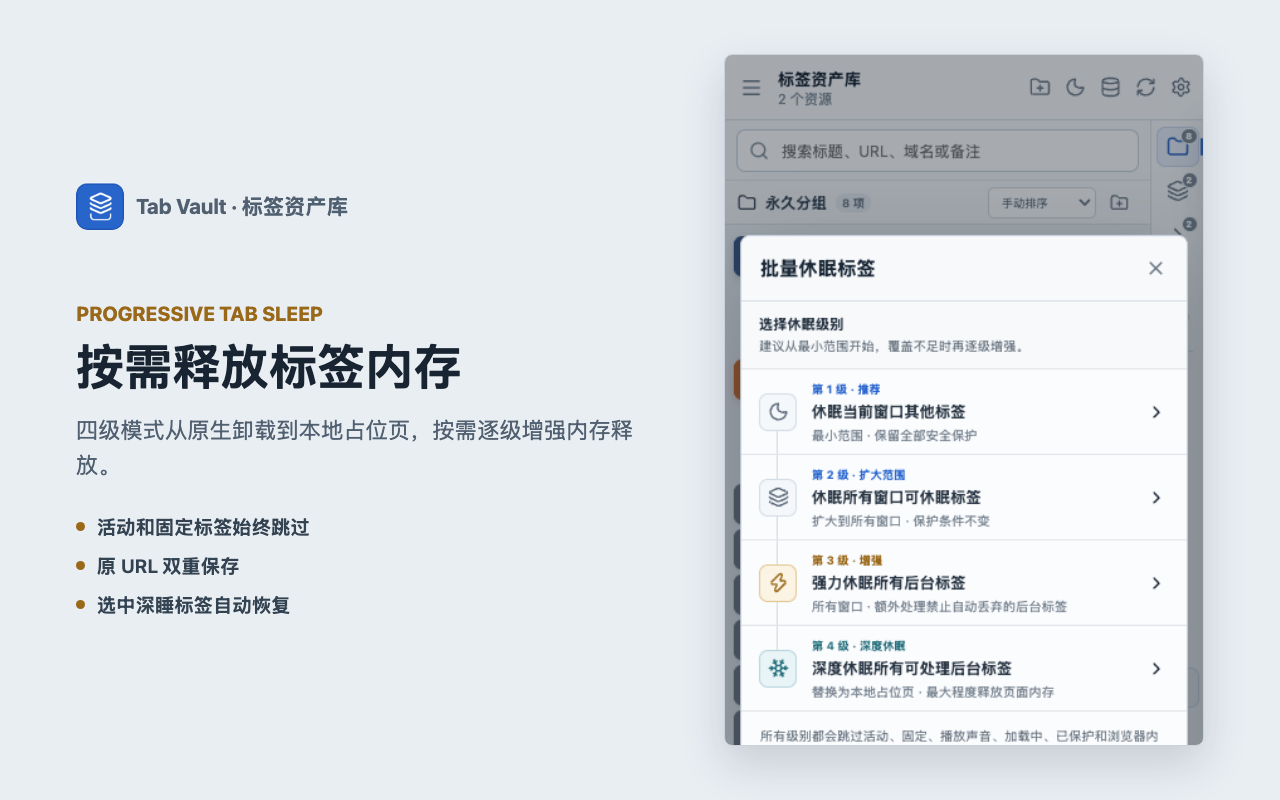
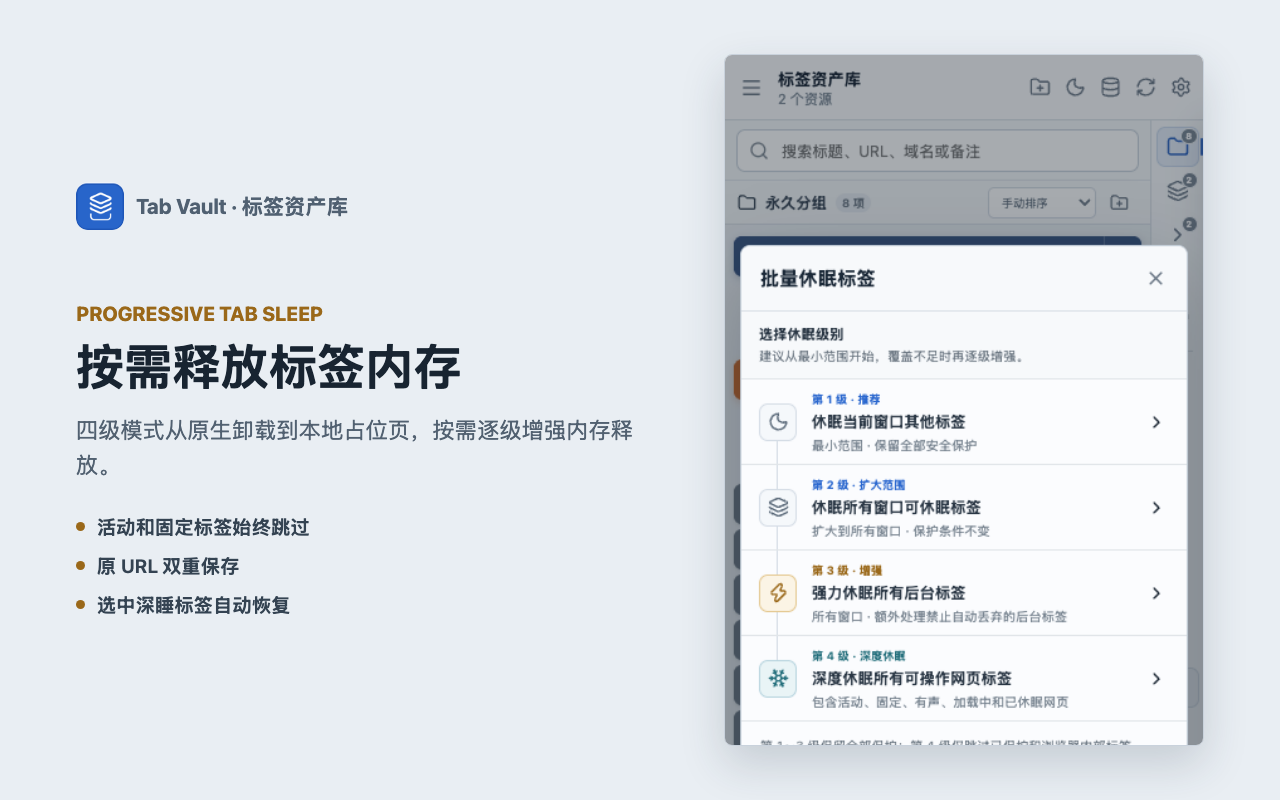
fix: make level four deep sleep exhaustive

Changed region(s): [[0.5625, 0.2812, 0.9375, 0.9375]]

diff --git a/src/shared/i18n.ts b/src/shared/i18n.ts
@@ -75,15 +75,15 @@ const en = {
   sleepOtherTabs: "Sleep other tabs in this window",
   sleepAllTabs: "Sleep eligible tabs in all windows",
   forceSleepAllTabs: "Force-sleep all background tabs",
-  deepSleepAllTabs: "Deep-sleep all eligible background tabs",
+  deepSleepAllTabs: "Deep-sleep all operable web tabs",
   sleepOtherTabsScope: "Smallest scope · All safeguards remain active",
   sleepAllTabsScope: "All windows · The same safeguards remain active",
   forceSleepAllTabsScope:
     "All windows · Also includes tabs blocked from automatic discard",
   deepSleepAllTabsScope:
-    "Replaces pages with local placeholders for maximum memory release",
+    "Includes active, pinned, audible, loading, and sleeping web tabs",
   sleepTabsSafety:
-    "Every level still skips active, pinned, audible, loading, protected, and browser-internal tabs.",
+    "Levels 1-3 retain all safeguards. Level 4 skips only protected and browser-internal tabs.",
   tabsPutToSleep:
     "{count} tabs are sleeping; they remain in the tab strip and reload when selected",
   noTabsToSleepCurrent:
@@ -96,9 +96,9 @@ const en = {
   noTabsToDeepSleep: "No eligible tabs for deep sleep",
   deepSleepWarningTitle: "Before deep sleep",
   deepSleepWarningBody:
-    "Deep sleep replaces eligible background pages with a lightweight local placeholder. The original URL, title, and group are saved first.",
+    "Deep sleep replaces every operable web tab with a lightweight local placeholder after saving its original URL, title, and group.",
   deepSleepWarningRuntimeLoss:
-    "Unsaved form input, playback position, and in-page app state may be lost.",
+    "Active pages are replaced immediately. Audio, loading, unsaved forms, and in-page app state will be interrupted.",
   deepSleepWarningRecovery:
     "The original URL is stored both in Tab Vault and in the placeholder address for recovery.",
   confirmDeepSleep: "Continue with deep sleep",
@@ -343,13 +343,13 @@ const zh: Record<MessageKey, string> = {
   sleepOtherTabs: "休眠当前窗口其他标签",
   sleepAllTabs: "休眠所有窗口可休眠标签",
   forceSleepAllTabs: "强力休眠所有后台标签",
-  deepSleepAllTabs: "深度休眠所有可处理后台标签",
+  deepSleepAllTabs: "深度休眠所有可操作网页标签",
   sleepOtherTabsScope: "最小范围 · 保留全部安全保护",
   sleepAllTabsScope: "扩大到所有窗口 · 保护条件不变",
   forceSleepAllTabsScope: "所有窗口 · 额外处理禁止自动丢弃的后台标签",
-  deepSleepAllTabsScope: "替换为本地占位页 · 最大程度释放页面内存",
+  deepSleepAllTabsScope: "包含活动、固定、有声、加载中和已休眠网页",
   sleepTabsSafety:
-    "所有级别都会跳过活动、固定、播放声音、加载中、已保护和浏览器内部标签。",
+    "第 1～3 级保留全部保护；第 4 级仅跳过已保护和浏览器内部标签。",
   tabsPutToSleep: "已休眠 {count} 个标签；标签仍保留在标签栏，切回时会重新加载",
   noTabsToSleepCurrent: "当前窗口没有可休眠标签，可尝试第 2 级处理所有窗口。",
   noTabsToSleepSafe: "安全级别没有可休眠标签，可尝试第 3 级扩大覆盖。",
@@ -358,9 +358,9 @@ const zh: Record<MessageKey, string> = {
   noTabsToDeepSleep: "没有可深度休眠的标签",
   deepSleepWarningTitle: "深度休眠前确认",
   deepSleepWarningBody:
-    "深度休眠会先保存原 URL、标题和分组，再把符合条件的后台网页替换为轻量本地占位页。",
+    "深度休眠会先保存原 URL、标题和分组，再把所有可操作网页标签替换为轻量本地占位页。",
   deepSleepWarningRuntimeLoss:
-    "未提交的表单、播放进度和网页应用内的临时状态可能丢失。",
+    "活动页面会立即被替换；音频、加载任务、未提交表单和网页应用临时状态都会中断。",
   deepSleepWarningRecovery:
     "原 URL 同时保存在标签资产库和占位页地址中，可双重恢复。",
   confirmDeepSleep: "确认并开始深度休眠",

diff --git a/src/shared/tabs.test.ts b/src/shared/tabs.test.ts
@@ -1,5 +1,5 @@
 import { describe, expect, it } from "vitest";
-import { isSafeToDeepSleep, isSafeToDiscard } from "./tabs";
+import { isEligibleForDeepSleep, isSafeToDiscard } from "./tabs";
 
 function makeTab(
   patch: Partial<chrome.tabs.Tab> = {},
@@ -52,25 +52,25 @@ describe("isSafeToDiscard", () => {
   });
 });
 
-describe("isSafeToDeepSleep", () => {
-  it("accepts both running and natively discarded background tabs", () => {
-    expect(isSafeToDeepSleep(makeTab())).toBe(true);
-    expect(isSafeToDeepSleep(makeTab({ discarded: true }))).toBe(true);
+describe("isEligibleForDeepSleep", () => {
+  it("accepts every operable web-tab state", () => {
+    expect(isEligibleForDeepSleep(makeTab())).toBe(true);
+    expect(isEligibleForDeepSleep(makeTab({ active: true }))).toBe(true);
+    expect(isEligibleForDeepSleep(makeTab({ pinned: true }))).toBe(true);
+    expect(isEligibleForDeepSleep(makeTab({ audible: true }))).toBe(true);
+    expect(isEligibleForDeepSleep(makeTab({ discarded: true }))).toBe(true);
+    expect(
+      isEligibleForDeepSleep(makeTab({ status: "loading" })),
+    ).toBe(true);
+    expect(
+      isEligibleForDeepSleep(makeTab({ autoDiscardable: false })),
+    ).toBe(true);
   });
 
   it.each([
-    ["active", { active: true }],
-    ["pinned", { pinned: true }],
-    ["audible", { audible: true }],
-    ["loading", { status: "loading" as const }],
+    ["missing ID", { id: undefined }],
     ["browser-internal", { url: "chrome://extensions" }],
   ])("rejects a %s tab", (_label, patch) => {
-    expect(isSafeToDeepSleep(makeTab(patch))).toBe(false);
-  });
-
-  it("ignores the browser auto-discard flag for a manual deep sleep", () => {
-    expect(
-      isSafeToDeepSleep(makeTab({ autoDiscardable: false })),
-    ).toBe(true);
+    expect(isEligibleForDeepSleep(makeTab(patch))).toBe(false);
   });
 });

diff --git a/src/sidepanel/App.tsx b/src/sidepanel/App.tsx
@@ -118,6 +118,7 @@ const COLLECTION_COLORS: CollectionColor[] = [
 const PRIVACY_POLICY_URL =
   "https://github.com/theZmemo/tab-vault-extension/blob/main/PRIVACY.md";
 const RESOURCE_RENDER_BATCH = 80;
+const DEEP_SLEEP_WARNING_VERSION = 2;
 
 const COLLECTION_COLOR_LABELS: Record<CollectionColor, string> = {
   blue: t("colorBlue"),
@@ -593,7 +594,8 @@ export function App() {
     if (
       scope === "deep" &&
       !warningAccepted &&
-      !state?.settings.deepSleepWarningAccepted
+      (state?.settings.deepSleepWarningVersion ?? 0) <
+        DEEP_SLEEP_WARNING_VERSION
     ) {
       setDialog("deep-sleep-warning");
       return;
@@ -604,11 +606,15 @@ export function App() {
       if (
         scope === "deep" &&
         warningAccepted &&
-        !state?.settings.deepSleepWarningAccepted
+        (state?.settings.deepSleepWarningVersion ?? 0) <
+          DEEP_SLEEP_WARNING_VERSION
       ) {
         await sendCommand({
           type: "UPDATE_SETTINGS",
-          settings: { deepSleepWarningAccepted: true },
+          settings: {
+            deepSleepWarningAccepted: true,
+            deepSleepWarningVersion: DEEP_SLEEP_WARNING_VERSION,
+          },
         });
       }
       const currentWindow =

diff --git a/src/background/index.ts b/src/background/index.ts
@@ -16,7 +16,7 @@ import {
 import { t } from "../shared/i18n";
 import { matchesRule } from "../shared/rules";
 import { normalizeSettings } from "../shared/settings";
-import { isSafeToDeepSleep, isSafeToDiscard } from "../shared/tabs";
+import { isEligibleForDeepSleep, isSafeToDiscard } from "../shared/tabs";
 import type {
   Collection,
   CollectionMembership,
@@ -206,7 +206,7 @@ async function captureTab(
     return null;
   }
 
-  const rawUrl = tab.url ?? tab.pendingUrl ?? "";
+  const rawUrl = tab.pendingUrl ?? tab.url ?? "";
   if (isDeepSleepPageUrl(rawUrl, SUSPENDED_PAGE_URL)) {
     const resource = await captureDeepSleepingTab(
       tab as chrome.tabs.Tab & { id: number },
@@ -619,6 +619,7 @@ async function deepSleepTab(
     resourceId: resource.id,
     url: resource.originalUrl,
     title: resource.customTitle || resource.title,
+    initiallyActive: tab.active,
   });
   await appendEvent({
     type: "TAB_DEEP_SLEEP_PREPARED",
@@ -648,7 +649,7 @@ async function deepSleepEligibleTabs(): Promise<number> {
   let deepSleepingCount = 0;
 
   for (const tab of tabs) {
-    if (!isSafeToDeepSleep(tab)) {
+    if (!isEligibleForDeepSleep(tab)) {
       continue;
     }
     try {

diff --git a/src/shared/deepSleep.ts b/src/shared/deepSleep.ts
@@ -5,6 +5,7 @@ export interface DeepSleepPayload {
   resourceId: string;
   url: string;
   title: string;
+  initiallyActive?: boolean;
 }
 
 function isNonEmptyString(value: unknown): value is string {
@@ -35,6 +36,8 @@ export function createDeepSleepUrl(
     payload.version !== 1 ||
     !isNonEmptyString(payload.resourceId) ||
     !isNonEmptyString(payload.title) ||
+    (payload.initiallyActive !== undefined &&
+      typeof payload.initiallyActive !== "boolean") ||
     normalizeUrl(payload.url) === null
   ) {
     throw new Error("Invalid deep sleep payload");
@@ -67,6 +70,8 @@ export function parseDeepSleepPayload(
       !isNonEmptyString(value.resourceId) ||
       !isNonEmptyString(value.url) ||
       !isNonEmptyString(value.title) ||
+      (value.initiallyActive !== undefined &&
+        typeof value.initiallyActive !== "boolean") ||
       normalizeUrl(value.url) === null
     ) {
       return null;
@@ -76,6 +81,7 @@ export function parseDeepSleepPayload(
       resourceId: value.resourceId,
       url: value.url,
       title: value.title,
+      initiallyActive: value.initiallyActive,
     };
   } catch {
     return null;

diff --git a/src/suspended/main.ts b/src/suspended/main.ts
@@ -11,6 +11,7 @@ const statusCopy = document.querySelector<HTMLElement>("#status-copy");
 const restoreButton =
   document.querySelector<HTMLButtonElement>("#restore-button");
 let restoreStarted = false;
+let hasBeenHidden = document.visibilityState === "hidden";
 
 document.documentElement.lang = uiLocale;
 document.title = payload
@@ -66,10 +67,14 @@ restoreButton?.addEventListener("click", () => {
   void restorePage();
 });
 document.addEventListener("visibilitychange", () => {
-  if (document.visibilityState === "visible") {
+  if (document.visibilityState === "hidden") {
+    hasBeenHidden = true;
+    return;
+  }
+  if (!payload?.initiallyActive || hasBeenHidden) {
     void restorePage();
   }
 });
-if (document.visibilityState === "visible") {
+if (document.visibilityState === "visible" && !payload?.initiallyActive) {
   window.setTimeout(() => void restorePage(), 0);
 }

diff --git a/src/shared/settings.ts b/src/shared/settings.ts
@@ -10,6 +10,7 @@ export const DEFAULT_SETTINGS: VaultSettings = {
   recentClosedRetentionDays: 30,
   collectionSort: "manual",
   deepSleepWarningAccepted: false,
+  deepSleepWarningVersion: 0,
 };
 
 const COLLECTION_SORT_MODES = new Set<VaultSettings["collectionSort"]>([
@@ -77,5 +78,11 @@ export function normalizeSettings(
       typeof input?.deepSleepWarningAccepted === "boolean"
         ? input.deepSleepWarningAccepted
         : DEFAULT_SETTINGS.deepSleepWarningAccepted,
+    deepSleepWarningVersion: boundedNumber(
+      input?.deepSleepWarningVersion,
+      DEFAULT_SETTINGS.deepSleepWarningVersion,
+      0,
+      100,
+    ),
   };
 }

diff --git a/src/shared/backup.test.ts b/src/shared/backup.test.ts
@@ -54,6 +54,7 @@ function makeBackup(): VaultExport {
       recentClosedRetentionDays: 30,
       collectionSort: "manual",
       deepSleepWarningAccepted: false,
+      deepSleepWarningVersion: 0,
     },
   };
 }
@@ -80,6 +81,7 @@ describe("parseVaultExport", () => {
       settings: Record<string, unknown>;
     };
     delete backup.settings.deepSleepWarningAccepted;
+    delete backup.settings.deepSleepWarningVersion;
     expect(parseVaultExport(backup).settings.deepSleepWarningAccepted).toBe(
       undefined,
     );

diff --git a/src/shared/backup.ts b/src/shared/backup.ts
@@ -194,7 +194,9 @@ function isSettings(value: unknown): value is VaultSettings {
     isFiniteNumber(value.recentClosedRetentionDays) &&
     SORT_MODES.has(value.collectionSort as VaultSettings["collectionSort"]) &&
     (value.deepSleepWarningAccepted === undefined ||
-      typeof value.deepSleepWarningAccepted === "boolean")
+      typeof value.deepSleepWarningAccepted === "boolean") &&
+    (value.deepSleepWarningVersion === undefined ||
+      isFiniteNumber(value.deepSleepWarningVersion))
   );
 }
 

diff --git a/src/shared/tabs.ts b/src/shared/tabs.ts
@@ -19,15 +19,11 @@ export function isSafeToDiscard(
   );
 }
 
-export function isSafeToDeepSleep(
+export function isEligibleForDeepSleep(
   tab: chrome.tabs.Tab,
 ): tab is chrome.tabs.Tab & { id: number } {
   return Boolean(
     tab.id !== undefined &&
-      !tab.active &&
-      !tab.pinned &&
-      !tab.audible &&
-      tab.status !== "loading" &&
-      normalizeUrl(tab.url ?? "") !== null,
+      normalizeUrl(tab.pendingUrl ?? tab.url ?? "") !== null,
   );
 }

diff --git a/src/shared/db.ts b/src/shared/db.ts
@@ -73,7 +73,8 @@ export async function ensureDatabaseDefaults(): Promise<VaultSettings> {
         merged.recentClosedRetentionDays ||
       existing.collectionSort !== merged.collectionSort ||
       existing.deepSleepWarningAccepted !==
-        merged.deepSleepWarningAccepted
+        merged.deepSleepWarningAccepted ||
+      existing.deepSleepWarningVersion !== merged.deepSleepWarningVersion
     ) {
       await db.settings.put(merged);
     }

diff --git a/src/shared/deepSleep.test.ts b/src/shared/deepSleep.test.ts
@@ -14,6 +14,7 @@ describe("deep sleep payload", () => {
       resourceId: "resource_42",
       url: "https://example.com/report?id=42#结果",
       title: "治理结果 · 第四级",
+      initiallyActive: true,
     };
     const url = createDeepSleepUrl(suspendedPageUrl, payload);
 
